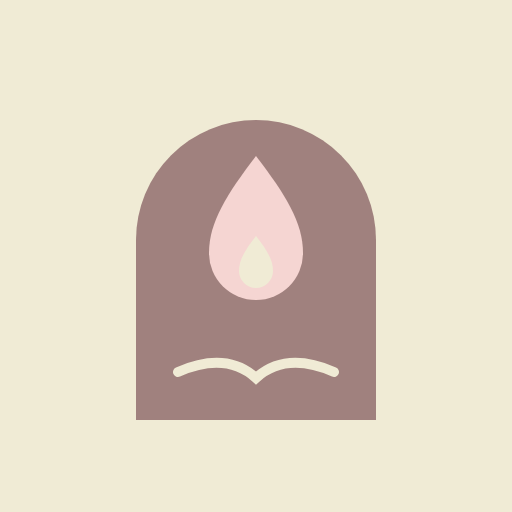
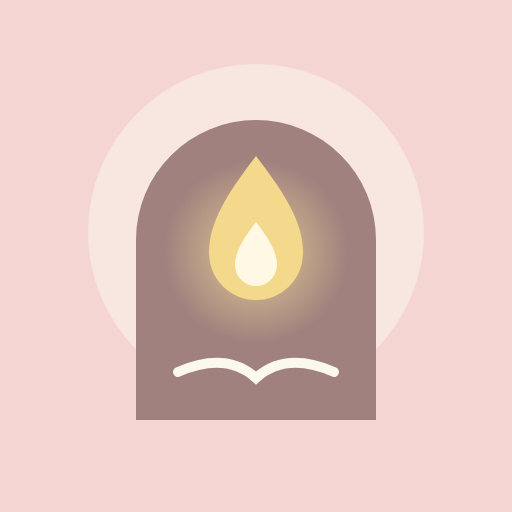
Perfil de cada pessoa: nome, foto com ajuste (arrastar e zoom), 6 paletas, claro/escuro/automático com botão no topo, conta e sair; ícone com a chama acesa; nome dinâmico no lugar de 'Laís'; cores do app em variáveis de paleta
Claude-Session: https://claude.ai/code/session_01Ya1T8k2PrnaBv9xu6juDCu

Changed region(s): [[0.375, 0.3125, 0.625, 0.625], [0.3438, 0.6875, 0.6562, 0.75]]

diff --git a/GUIA.md b/GUIA.md
@@ -103,8 +103,15 @@ Para abrir o arquivo:
 
 ---
 
-## 4. Ícone na tela de início
+## 4. Perfil, cores e várias pessoas
 
-Para pegar o **símbolo novo** (o arco com a chama):
+- Toque na **sua foto** (canto de cima) para abrir **seu perfil**: nome, foto (trocar, **ajustar** arrastando e com zoom, ou tirar), **claro / escuro / automático** e a **paleta** (Dusty & baunilha, Rosa antigo, Sálvia, Céu, Lavanda ou Planê). O botão de lua/sol no topo troca claro e escuro na hora.
+- **Outras pessoas (ex.: seu namorado):** mande o endereço **arqlais.github.io/lampada**. Cada um entra com a **própria conta Google** (depois que o login do passo 1 estiver ligado) e tem progresso, diário, palavras, chave do Gemini, foto e paleta só seus. As regras do passo 1.4 garantem que ninguém vê os dados do outro.
+- Sem login, o perfil fica salvo só naquele aparelho.
+- **Sair da conta:** em **seu perfil**, no fim da página.
+
+## 5. Ícone na tela de início
+
+Para pegar o **símbolo novo** (o arco com a chama acesa):
 1. Apague o atalho antigo da tela de início.
 2. Abra **arqlais.github.io/lampada** no Safari › **Compartilhar** › **Adicionar à Tela de Início**.
